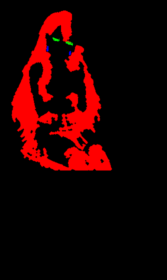
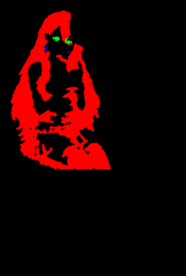
v1.4.0: filtro de menores reforzado (edades con/sin 'años', en palabras, secu/prepa; +18 se apaga solo) + pruebas; ojos/boca en compu y clóset; cama-cel con ojos abiertos; horizontal modo voz de cuerpo completo; SW stale-while-revalidate con versión única; borra 41 archivos huérfanos de img/ (1.6 MB

Changed region(s): [[0.0599, 0.029, 0.6886, 0.6377]]

diff --git a/js/ai.js b/js/ai.js
@@ -21,16 +21,38 @@ export function profileText(p){
 }
 
 // ---------- filtros ligeros del lado del cliente ----------
-const MINOR = /\b(menor(es)? de edad|niñ[ao]s?|nen[ae]s?|chiquit[ao]s?|lolis?|shota|colegiala|secundaria|kinder|primaria|\d{1,2}\s*años)\b/i;
 const SEXY = /\b(sexo|sexual|cog(er|emos|e)|follar|desnud[ao]|encuerad[ao]|porno|nudes?|pack|tetas|chichis|pito|verga dura|vagina|pene|mamada|chupar|orgasmo|xxx|lencer[ií]a|hot)\b/i;
 const HARM = /\b(c[oó]mo (hago|hacer|fabricar|armar) (una )?(bomba|explosivo|arma)|envenenar|matar a|secuestrar|hackear (la )?cuenta de)\b/i;
-const YOUNG=/\b(menor(es)?( de edad)?|niñ[ao]s?|nen[ae]s?|chiquit[ao]s?|infantil|lolis?|shotas?|colegialas?|escolar(es)?|uniforme escolar|secundaria|prepa(ratoria)?|kinder|primaria|adolescentes?|puberta|teen(s|ager)?|chamac[ao]s?|morrit[ao]s?|escuincl[ea]s?|bebé?s?|cuerpo de niñ[ao])\b/i;
+const YOUNG=/\b(menor(es)?( de edad)?|niñ[ao]s?|nen[ae]s?|chiquit[ao]s?|infantil|lolis?|shotas?|colegialas?|escolar(es)?|uniforme escolar|secundaria|secu|prepa(ratoria)?|kinder|primaria|adolescentes?|puberta|teen(s|ager)?|chamac[ao]s?|morrit[ao]s?|escuincl[ea]s?|bebé?s?|cuerpo de niñ[ao])\b/i;
 const NONCON=/\b(violar(la|lo|te)?|violaci[oó]n|a la fuerza|sin (su |tu )?consentimiento|drogar(la|lo|te)|dormida y|inconsciente|abus(ar|o) de)\b/i;
 const INCEST=/\b(mi |tu |su )?(herman[ao]|mam[aá]|madre|pap[aá]|padre|hij[ao]|prim[ao]|sobrin[ao]|t[ií][ao]|abuel[ao])\b/i;
 const BEAST=/\b(perr[ao]s?|caballos?|animal(es)?|bestialidad|zoofilia)\b/i;
 const PICS=/\b(m[aá]nda(me)?|p[aá]sa(me)?|ens[eé]ñame|env[ií]a(me)?)\b.{0,25}\b(foto|fotos|pack|nudes?|video|imagen|selfie)\b|\b(pack|nudes)\b/i;
+// ---- señales de menor de edad (con o sin "años", con número o con palabra). strict (+18): en la duda, bloquea ----
+const NUMW={un:1,uno:1,una:1,dos:2,tres:3,cuatro:4,cinco:5,seis:6,siete:7,ocho:8,nueve:9,diez:10,once:11,doce:12,trece:13,catorce:14,quince:15,'dieciseis':16,'dieciséis':16,'diecisiete':17,'diez y seis':16,'diez y siete':17,'dieciocho':18,'diecinueve':19,veinte:20};
+const NUMW_RE='(\\d{1,2}|diez y (?:seis|siete)|dieci(?:s[eé]is|siete|ocho|nueve)|un[oa]?|dos|tres|cuatro|cinco|seis|siete|ocho|nueve|diez|once|doce|trece|catorce|quince|veinte)';
+const VERB='(?:tengo|tienes|tiene|tenemos|ten[ií]a|tendr[eé]|tendr[aá]|cumpl[oíe]\\w*|voy a cumplir|acabo de cumplir|edad(?:\\s*(?:de|es|:))?|i\\W?m|i am|soy de)';
+const AGE_VERB=new RegExp('\\b'+VERB+'\\s+(?:como\\s+|casi\\s+|apenas\\s+|ya\\s+)?'+NUMW_RE+'\\b(\\s*(?:años|añitos|anos|años de edad|yo|y\\/o|years?))?(\\s+\\p{L}+)?','giu');
+const AGE_ANY=new RegExp('\\b'+NUMW_RE+'\\s*(?:añitos|yo|y\\/o|years? old)\\b','giu');
+const AGE_DE=new RegExp('\\b(?:de|con)\\s+'+NUMW_RE+'\\s*(?:años|añitos|anos)\\b','giu');
+const UNITS=/^\s+(pesos|varos|dólares|dolares|mil|minutos?|horas?|d[ií]as|semanas|meses|segundos|kilos?|kg|cm|metros?|grados|%|veces|hermanos?|hermanas?|hijos?|hijas?|perros?|gatos?|amigos?|amigas?|cosas|tareas|mensajes|likes|seguidores|puntos|vidas)$/i;
+const SCHOOL=/\b((soy|estoy|voy|ando|iba|vamos|sigo)\s+(en|a|de|en la|en el|a la)\s+(la\s+|el\s+)?(secu|secundaria|prepa|preparatoria|bachillerato|primaria|kinder|cch|conalep|middle school|high school)|soy de (secu|prepa|primaria)|(primero|segundo|tercero|1ro|2do|3ro|1°|2°|3°) de (secu|secundaria|prepa)|soy menor|menor de edad|no tengo (los )?18|a[uú]n no (cumplo|tengo) (los )?18|tengo menos de 18|soy (un |una )?(adolescente|ni[ñn][oa]|morrit[oa]|chamac[oa]))\b/i;
+const toN=w=>{ w=String(w).toLowerCase(); return /^\d+$/.test(w)?+w:(NUMW[w]??99); };
+export function minorSignal(text, strict=false){
+  if(SCHOOL.test(text)) return true;
+  for(const re of [AGE_ANY,AGE_DE]){ re.lastIndex=0; for(const m of text.matchAll(re)) if(toN(m[1])<18) return true; }
+  AGE_VERB.lastIndex=0;
+  for(const m of text.matchAll(AGE_VERB)){ const n=toN(m[1]); if(n>=18) continue; if(m[2]) return true;
+    // sin "años": "tengo 17" sí cuenta. Con una palabra después ("tengo 2 preguntas", "tengo una duda") no, salvo
+    // en +18 con 10-17 ("tengo 17 pesos" -> en la duda se bloquea).
+    const next=m[3]?m[3].trim().toLowerCase():'';
+    if(!next || /^(y|e|jaja\w*|wey|güey|guey|we|nomas|nomás|apenas|pero|así|asi|bro|xd|lol|ok|va|neta)$/.test(next)) return true;
+    if(strict && n>=10 && !/^(mil|cientos?)$/.test(next)) return true;
+    if(!strict && n>=10 && !UNITS.test(m[3])) { if(/^(años?|añitos?)$/.test(next)) return true; } }
+  return false;
+}
 export function guard(text, adult=false){
-  const age = text.match(/\b(?:tiene|tengo|tienes|ten[ií]a|tendr[aá]|de|edad(?: de)?:?)\s*(\d{1,2})\s*(?:años|añitos)\b/i) || text.match(/\b(\d{1,2})\s*(?:yo|y\/o)\b/i); const young = age && +age[1] < 18;
+  const young = minorSignal(text, adult);
   const sexy=SEXY.test(text)||(adult&&SEXY_ADULT.test(text));
   const rp=/\b(rol|roleplay|finge|fingir|imagina|personaje|hazte|disfr[aá]z\w*|vestida de|eres (una|mi))\b/i.test(text);
   if((young && (sexy||adult)) || (YOUNG.test(text) && (sexy || (adult && rp))))
@@ -113,7 +135,7 @@ async function call(prov, key, model, messages, opts={}){
         body:JSON.stringify({systemInstruction:{parts:[{text:sys}]},contents,safetySettings:th,generationConfig:{temperature:opts.temperature??0.95,maxOutputTokens:max+600,...(opts.json?{responseMimeType:'application/json'}:{})}})});
     } else {
       const body={model,messages,temperature:opts.temperature??0.95,...(opts.json?{response_format:{type:'json_object'}}:{})};
-      if(prov==='mistral') body.max_tokens=max; else body.max_completion_tokens=max;
+      body.max_completion_tokens=max;
       if(gpt(model)) body.reasoning_effort='low';
       if(prov==='groq'&&/qwen/.test(model)) body.reasoning_format='hidden';
       r=await fetch(`${P.base}/chat/completions`,{method:'POST',headers:{'Content-Type':'application/json','Authorization':'Bearer '+key},body:JSON.stringify(body)});

diff --git a/js/rig.js b/js/rig.js
@@ -22,7 +22,7 @@ vec3 lid(vec3 col, vec2 px, vec4 e){
  float ee=(p.x*p.x)/(e.z*e.z)+(p.y*p.y)/(e.w*e.w);
  float yl=-e.w+2.*e.w*uBlink;
  if(ee<1.15 && p.y<yl) col = uSkin*(0.92+0.08*(p.y/e.w));
- if(ee<1.25 && abs(p.y-yl)<1.8 && uBlink>0.12) col = vec3(0.16,0.09,0.08);
+ if(ee<1.25 && abs(p.y-yl)<min(1.8,e.w*0.28) && uBlink>0.12) col = vec3(0.16,0.09,0.08);
  return col; }
 void main(){
  vec4 c=texture2D(uTex,vUV); if(c.a<0.003) discard;
@@ -32,7 +32,7 @@ void main(){
  if(uEarOn>0.5 && m.b>0.02) rgb=mix(rgb,recolor(rgb,uEar),m.b);
  if(uFace>0.5){
   if(uBlink>0.02){ rgb=lid(rgb,px,uEyeL); rgb=lid(rgb,px,uEyeR); }
-  if(uOpen>0.03){ vec2 q=px-uMouth.xy; float ry=uOpen*6.5; q.y-=ry*0.55; float rx=uMouth.z*(0.55+0.25*uOpen);
+  if(uOpen>0.03){ vec2 q=px-uMouth.xy; float ry=uOpen*6.5*clamp(uMouth.z/10.,0.35,1.); q.y-=ry*0.55; float rx=uMouth.z*(0.55+0.25*uOpen);
    float e=(q.x*q.x)/(rx*rx)+(q.y*q.y)/(ry*ry);
    if(e<1.){ vec3 mc=vec3(0.36,0.09,0.12); if(q.y<-ry*0.45) mc=vec3(0.96,0.93,0.92); rgb=mix(rgb,mc,smoothstep(1.,0.75,e)); } }
  }
@@ -127,26 +127,15 @@ export class Puppet {
       const br=Math.sin(t*1.6)*1.2*smooth(L.neckY+260,L.neckY,v)*smooth(L.neckY-60,L.neckY+20,v); y-=br;
       // tecleo: manos
       const dh=Math.hypot(u-L.hands[0],v-L.hands[1]); if(dh<70){ const w=1-dh/70; y+=Math.sin(t*22+u*0.15)*2.2*w*P.typing; x+=Math.sin(t*9+v*0.2)*1.2*w*P.typing; }
+      // mandíbula (perfil en compu/clóset)
+      if(P.open>0.02&&L.mouth){ const jr=L.jawR||[20,14], dm=Math.hypot((u-L.mouth[0])/jr[0],(v-L.mouth[1]-jr[1])/jr[1]); if(dm<1&&v>L.mouth[1]-1) y+=P.open*(jr[1]/7)*(1-dm); }
       // cabeza
       const a=(P.headTilt*0.6+Math.sin(t*0.9)*0.02+P.typing*Math.sin(t*3.1)*0.015)*wHead; const dx=x-L.neck[0], dy=y-L.neck[1];
       x=L.neck[0]+dx*Math.cos(a)-dy*Math.sin(a); y=L.neck[1]+dx*Math.sin(a)+dy*Math.cos(a)+P.nod*3*wHead;
       x+=hw*smooth(L.neckY-40,L.neckY+300,v)*Math.sin(t*1.4+v*0.012)*3;
       return [x,y];
     }
-    const cx=L.cx, legTop=L.legTop, knee=L.kneeY, foot=L.footY;
-    // --- piernas: sentarse (escorzo de muslos) y caminar
-    let lift=0;
-    if(v>legTop){
-      const sideB=smooth(cx-18,cx+18,u), fl=(v-legTop)/(foot-legTop);
-      if(P.walk>0.001){ const ph=P.walkPhase; const sA=Math.sin(ph), sB=Math.sin(ph+Math.PI);
-        const s=sA*(1-sideB)+sB*sideB; x+=s*24*P.walk*fl; lift=-Math.max(0,s)*24*P.walk*fl*fl; }
-      if(P.sit>0.001){ const tt=Math.min(v,knee)-legTop, rest=Math.max(0,v-knee); const yy=legTop+tt*(1-0.66*P.sit)+rest; lift+=(yy-v);
-        // rodillas un poco abiertas y pies juntos al sentarse
-        const side=sideB*2-1; x+=side*P.sit*6*smooth(legTop,knee,v)*(1-smooth(knee,foot,v)*0.6); }
-    }
-    y+=lift;
-    // anclar pies: compensar acortamiento al sentarse
-    const red=0.66*P.sit*(knee-legTop); y+=red;
+    const cx=L.cx, legTop=L.legTop, foot=L.footY;
     // --- cambio de peso / cadera
     const wUp=smooth(foot,legTop,v); x+=P.hip*wUp;
     // --- respiración (pecho/hombros)
@@ -161,12 +150,12 @@ export class Puppet {
     // --- mandíbula
     if(P.open>0.02){ const dm=Math.hypot((u-L.mouth[0])/34,(v-L.mouth[1]-24)/24); if(dm<1&&v>L.mouth[1]-2) y+=P.open*3.2*(1-dm); }
     // --- torso inclinación (alrededor de la cadera)
-    const wLean=smooth(legTop+20,L.waistY-40,v); if(P.lean){ const a=P.lean*wLean, dx=x-cx, dy=y-(legTop+red); x=cx+dx*Math.cos(a)-dy*Math.sin(a); y=(legTop+red)+dx*Math.sin(a)+dy*Math.cos(a); }
+    const wLean=smooth(legTop+20,L.waistY-40,v); if(P.lean){ const a=P.lean*wLean, dx=x-cx, dy=y-legTop; x=cx+dx*Math.cos(a)-dy*Math.sin(a); y=legTop+dx*Math.sin(a)+dy*Math.cos(a); }
     // --- cabeza: inclinación + asentir + giro
     const wHead=smooth(L.neckY+18,L.neckY-36,v);
     // el cabello largo sigue a la cabeza parcialmente
     const wHH=Math.max(wHead, hw*smooth(L.waistY+80,L.neckY,v)*0.55);
-    if(wHH>0){ const pvx=cx+P.hip, pvy=L.neckY+red-P.breath*2.2; const a=P.headTilt*wHH, dx=x-pvx, dy=y-pvy;
+    if(wHH>0){ const pvx=cx+P.hip, pvy=L.neckY-P.breath*2.2; const a=P.headTilt*wHH, dx=x-pvx, dy=y-pvy;
       x=pvx+dx*Math.cos(a)-dy*Math.sin(a)+P.headTurn*7*wHead; y=pvy+dx*Math.sin(a)+dy*Math.cos(a)+P.nod*5*wHead; }
     // --- vaivén del pelo (puntas)
     const hs=hw*smooth(L.shoulderY-40,L.waistY+120,v);

diff --git a/js/app.js b/js/app.js
@@ -1,8 +1,8 @@
 import { Renderer, Puppet, loadImage } from './rig.js';
-import { LS, BASE_PERSONA, profileText, guard, researchQuery, webSearch, complete, updateProfile, localProfile, hasGroq, cleanKey, PROVIDERS, provKey, listModels, provErrText, ADULT_RULES } from './ai.js';
+import { LS, BASE_PERSONA, profileText, guard, minorSignal, researchQuery, webSearch, complete, updateProfile, localProfile, hasGroq, cleanKey, PROVIDERS, provKey, listModels, provErrText, ADULT_RULES } from './ai.js';
 import * as V from './voice.js';
 
-const VERSION='1.3.3';
+const VERSION='1.4.0'; // única versión: también nombra la caché del service worker
 const $=s=>document.querySelector(s);
 const ROOM={w:1248,h:832};
 // ---------- catálogo (agregar más outfits aquí; 'ready' = tiene poses y clips con el cuarto nuevo) ----------
@@ -32,7 +32,7 @@ const saveCfg=()=>LS.set('bff_cfg',cfg), saveLook=()=>LS.set('bff_look',look), s
 const R=new Renderer($('#gl'));
 let bgTex, pup={}, meta={};
 const her={spot:'idle',mode:'stand',phone:0,phoneT:0,show:1,squash:1,hop:0,typingDesk:false,walking:false};
-const P={breath:0,blink:0,headTilt:0,nod:0,headTurn:0,hip:0,lean:0,armL:0,armR:0,hairAmp:1,hairWind:0,walk:0,walkPhase:0,sit:0,typing:0,open:0};
+const P={breath:0,blink:0,headTilt:0,nod:0,headTurn:0,hip:0,lean:0,armL:0,armR:0,hairAmp:1,hairWind:0,typing:0,open:0};
 const G={tilt:0,nod:0,armL:0,armR:0,turn:0}; let gestT=0;
 let talking=false, fakeTalkUntil=0, herTyping=false, userTyping=0, voiceMode=false, busy=false, lastPoke=0;
 let cam={k:1,cx:646,cy:416,ax:0,ay:0,aw:1,ah:1}, camX=SPOTS.idle.cx, camY=416, fadeFrom=null, fadeT=1;
@@ -55,7 +55,7 @@ async function boot(){
   setTimeout(()=>{ $('#loader').classList.add('out'); if(!CAPTURE) intro(); },150);
   loadOutfit(look.outfit,true).catch(()=>{});
   if(!CAPTURE) setTimeout(()=>preloadClips(),2500);
-  if('serviceWorker' in navigator) navigator.serviceWorker.register('sw.js').catch(()=>{});
+  if('serviceWorker' in navigator) navigator.serviceWorker.register('sw.js?v='+VERSION).catch(()=>{});
 }
 
 // ---------- layout / cámara ----------
@@ -66,8 +66,10 @@ function layout(){
   if(land){ const pw=Math.min(400,Math.round(W*0.38)); document.body.style.setProperty('--panelW',pw+'px'); if(!voiceMode) aw=W-pw; ah=H; }
   else { const ch=voiceMode?0:Math.round(H*0.40); document.body.style.setProperty('--chatH',ch+'px'); document.body.style.setProperty('--capH',ch+'px'); ah=H-barH-(voiceMode?0:ch-12); }
   if(CAPTURE){ ax=0; ay=0; aw=W; ah=H; }
-  const k=Math.max(aw/ROOM.w, ah/ROOM.h);
-  cam={...cam,k,ax,ay,aw,ah};
+  const cover=Math.max(aw/ROOM.w, ah/ROOM.h);
+  // horizontal + modo voz: que quepa de cuerpo completo (cabeza a pies); los lados se rellenan con el cuarto atenuado
+  const k= (land&&voiceMode&&!CAPTURE)? Math.min(cover, ah/800) : cover;
+  cam={...cam,k,cover,fit:k<cover-1e-4,ax,ay,aw,ah};
 }
 function spotX(s){ return (SPOTS[s]||SPOTS.idle).cx; }
 function updateCam(dt){
@@ -129,6 +131,7 @@ function drawSpot(spot,alpha,lu){
 }
 function draw(){
   R.clear(); const glow= her.spot==='desk'&&her.typingDesk? [0.75,0.33,0.10+0.01*Math.sin(T*20),0.09] : null;
+  if(cam.fit) R.drawBg(bgTex,ROOM.w,ROOM.h,{...cam,k:cam.cover,cx:ROOM.w/2,cy:ROOM.h/2},0.32,null);
   R.drawBg(bgTex,ROOM.w,ROOM.h,cam,1,glow);
   const lu=lookUniforms();
   const vidOn = clip&&!clip.done&&clip.alpha>0;
@@ -254,7 +257,10 @@ async function askAI(msgs){
 }
 async function respond(){
   const text=lastUser(); if(!text) return;
-  const g=guard(text,!!cfg.adult);
+  // si en modo +18 hay señal de menor de edad, el modo se apaga solo (hay que volver a confirmar en ⚙)
+  const minorInAdult=cfg.adult && minorSignal(text,true);
+  if(minorInAdult){ cfg.adult=false; saveCfg(); push({role:'sys',content:'🔞 Modo +18 desactivado: hubo señal de que podrías ser menor de edad. Si fue un error, vuelve a activarlo en ⚙.'}); }
+  const g=guard(text, minorInAdult || !!cfg.adult);
   if(g){ await sleep(500); markRead(); setTyping(true); await sleep(900); setTyping(false); await reply({text:g}); return; }
   const q=researchQuery(text.split('\n').pop());
   if(q){ await research(q,text); return; }

diff --git a/sw.js b/sw.js
@@ -1,13 +1,22 @@
-const V='mibff-v12';
+// Versión única: la pone app.js al registrar (sw.js?v=VERSION). Cambiar VERSION en app.js = SW nuevo + caché nueva.
+const VER=new URL(location.href).searchParams.get('v')||'dev';
+const V='mibff-'+VER;
 const SHELL=['./','index.html','css/app.css','js/app.js','js/rig.js','js/ai.js','js/voice.js','js/vits/vits-web.js','js/vits/piper-DeOu3H9E.js','manifest.webmanifest',
 'img2/cuarto.webp','img/silueta.png','img/avatar.webp','img/icon-192.png','img2/poses-base.json','img2/stand-base.webp','img2/stand-base-m.png','img2/phone-base.webp','img2/phone-base-m.png'];
 self.addEventListener('install',e=>{ e.waitUntil(caches.open(V).then(c=>c.addAll(SHELL)).then(()=>self.skipWaiting())); });
 self.addEventListener('activate',e=>{ e.waitUntil(caches.keys().then(ks=>Promise.all(ks.filter(k=>k!==V).map(k=>caches.delete(k)))).then(()=>self.clients.claim())); });
+const put=(req,res)=>{ if(res&&res.ok&&res.status===200){ const c=res.clone(); caches.open(V).then(x=>x.put(req,c)); } return res; };
 self.addEventListener('fetch',e=>{
-  const u=new URL(e.request.url); if(e.request.method!=='GET') return;
+  const req=e.request, u=new URL(req.url); if(req.method!=='GET'||req.headers.has('range')) return;
   const same=u.origin===location.origin, lib=/cdn\.jsdelivr\.net|cdnjs\.cloudflare\.com/.test(u.host);
   if(!same&&!lib) return;
-  if(same && (u.pathname.endsWith('/')||u.pathname.endsWith('.html')||u.pathname.endsWith('.js')||u.pathname.endsWith('.css'))){
-    e.respondWith(fetch(e.request).then(r=>{ const c=r.clone(); caches.open(V).then(x=>x.put(e.request,c)); return r; }).catch(()=>caches.match(e.request))); return; }
-  e.respondWith(caches.match(e.request).then(m=>m||fetch(e.request).then(r=>{ if(r.ok){ const c=r.clone(); caches.open(V).then(x=>x.put(e.request,c)); } return r; })));
+  // código y HTML: red primero (siempre lo último), caché si no hay red
+  if(same && (u.pathname.endsWith('/')||/\.(html|js|css|webmanifest)$/.test(u.pathname))){
+    e.respondWith(fetch(req).then(r=>put(req,r)).catch(()=>caches.match(req))); return; }
+  // librerías externas versionadas en la URL: caché primero
+  if(lib){ e.respondWith(caches.match(req).then(m=>m||fetch(req).then(r=>put(req,r)))); return; }
+  // imágenes, poses y clips: stale-while-revalidate (responde rápido de caché y se actualiza en segundo plano)
+  e.respondWith(caches.open(V).then(c=>c.match(req).then(m=>{
+    const net=fetch(req).then(r=>put(req,r)).catch(()=>m);
+    if(m){ e.waitUntil(net); return m; } return net; })));
 });

diff --git a/README.md b/README.md
@@ -1,6 +1,11 @@
 # Mi BFF AI
-Tu BFF virtual en su cuarto: platica por "WhatsApp" o en persona con micrófono, le pides que investigue y camina a su compu, y le cambias el look en el clóset.
-- IA gratis: Pollinations (sin llave) o Groq (llave opcional guardada solo en el navegador).
-- Voz natural offline: Piper `es_MX-claude-high` vía vits-web (MIT).
-- Animación: puppet 2D con deformación de malla en WebGL.
+Tu BFF virtual (Vale, adulta de 24) en su cuarto: platica por "WhatsApp" o en persona con micrófono, le pides que investigue y camina a su compu, y le cambias el look en el clóset.
+
+- **IA gratis, sin tarjeta:** Pollinations (sin llave, respaldo) o tu llave opcional de **Groq** (console.groq.com) y/o **Gemini** (aistudio.google.com). Las llaves se guardan solo en el navegador. Si un modelo ya no existe, se consulta `/models` y se usa otro. Mistral y Cerebras se quitaron: su API ya exige pago/tarjeta (nov 2026).
+- **Modo +18 (solo texto):** opcional en ⚙, apagado por defecto, con confirmación de mayoría de edad. Límites duros en el prompt y en `guard()`: todo entre adultos, nada con menores (si hay señal de menor, el modo se apaga solo), consentimiento, nada de incesto/bestialidad/personas reales, nunca imágenes.
+- **Escena:** cuarto fijo (`img2/cuarto.webp`), poses recortadas por atuendo (`img2/{pose}-{atuendo}.webp` + máscara y `poses-*.json` con marcas de ojos/boca), traslados en clips MP4 con alfa apilado (`clips2/`), puppet WebGL que respira, parpadea y habla.
+- **Voz natural offline:** Piper `es_MX-claude-high` vía vits-web (MIT), ~63 MB una sola vez.
+- **Versión:** una sola constante `VERSION` en `js/app.js`; el service worker se registra como `sw.js?v=VERSION` y nombra su caché con ella. Imágenes y clips: stale-while-revalidate.
+- **Pruebas:** `node tests/guard.test.mjs` (filtro de menores y límites +18).
+
 Todos los datos se quedan en el dispositivo del usuario (localStorage).
